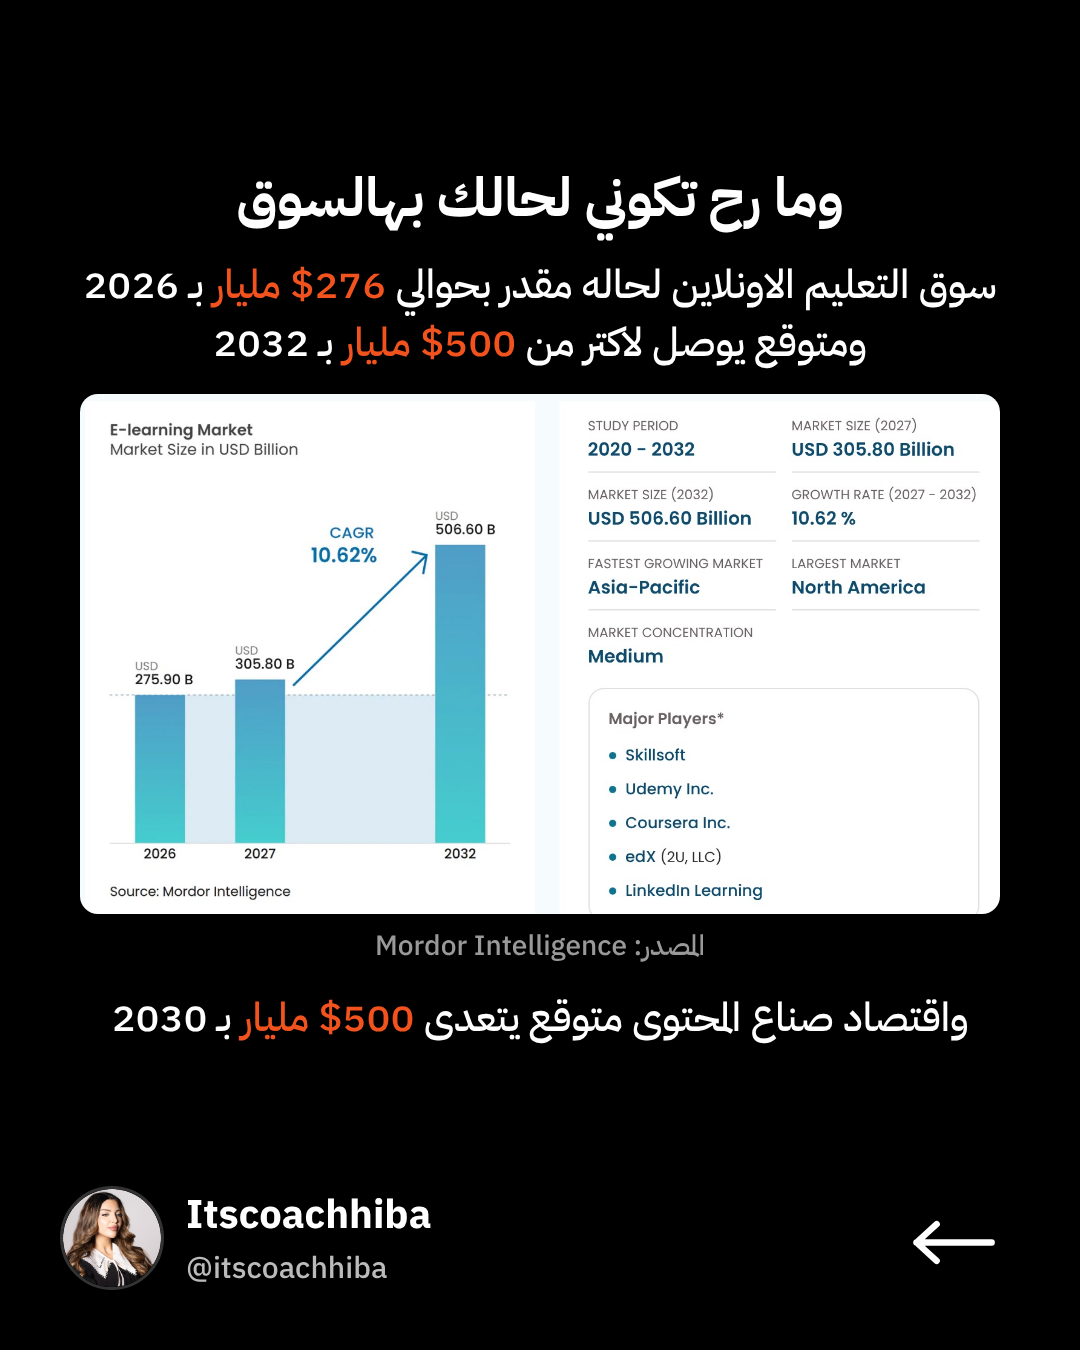
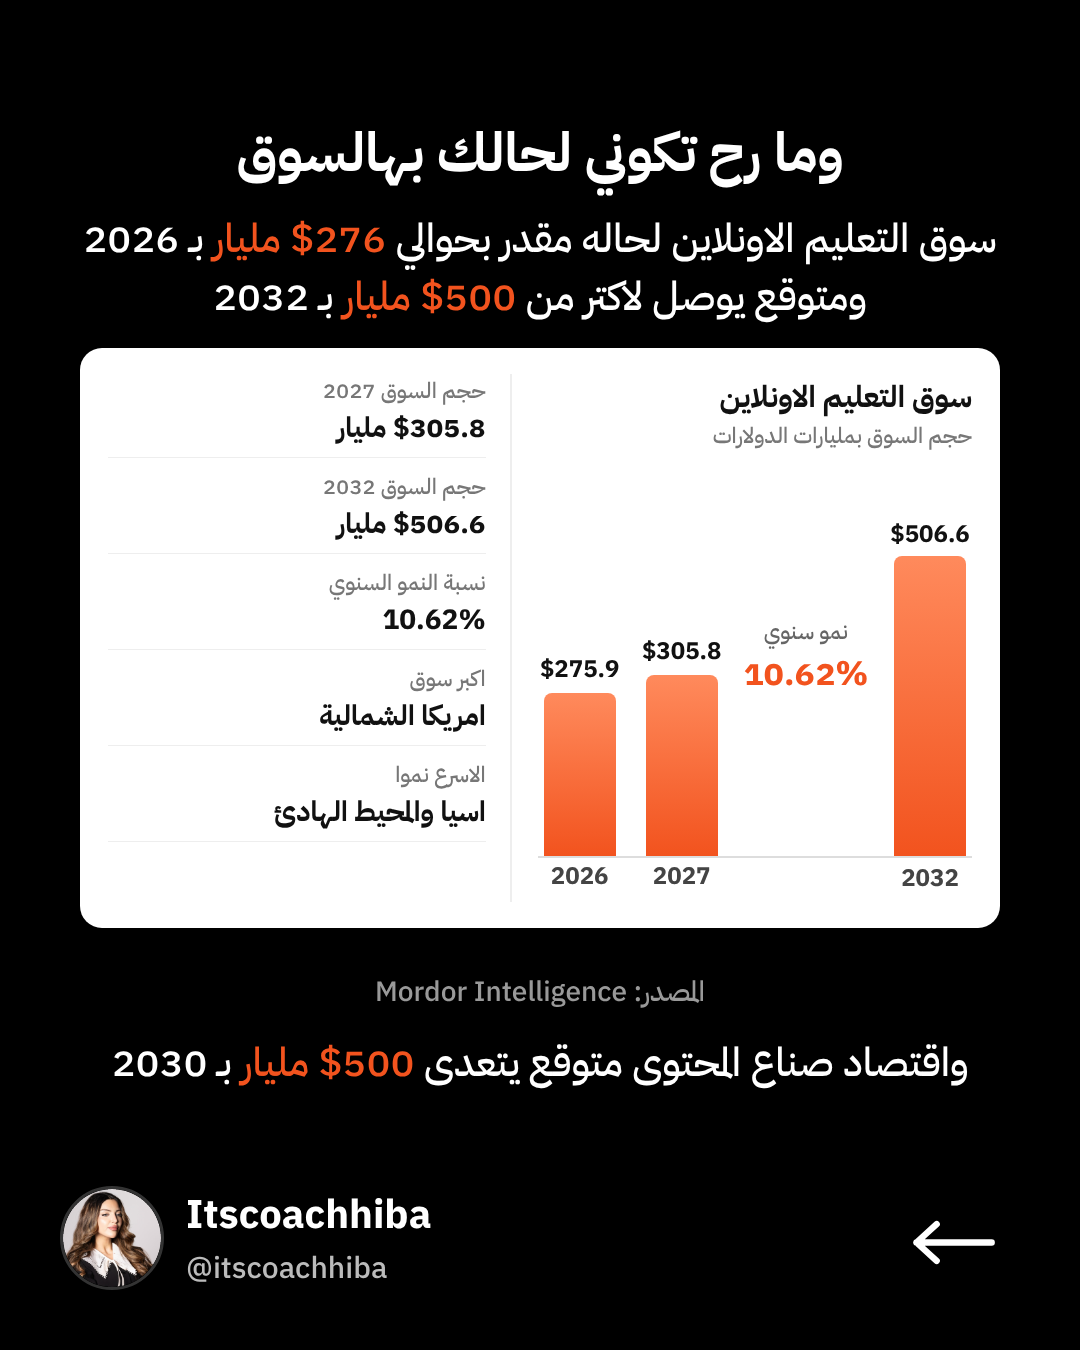
Carousel 22: Arabic market chart on slide 6
Claude-Session: https://claude.ai/code/session_01Q3F4hydPDiJyjfKYRyCC3U

Changed region(s): [[0.0611, 0.0933, 0.9472, 0.8089]]

diff --git a/carousels/22-digital-vs-physical/carousel.html b/carousels/22-digital-vs-physical/carousel.html
@@ -9,7 +9,16 @@
 .txt{background:#000;color:#fff}
 .txt .box{position:absolute;top:50px;bottom:190px;left:80px;right:80px;display:flex;flex-direction:column;justify-content:center;align-items:center;gap:22px;text-align:center}
 .vis{width:920px;height:470px;object-fit:cover;border-radius:28px;margin-bottom:10px}
-.proof{width:920px;border-radius:18px}
+.chart{width:920px;background:#fff;color:#111;border-radius:22px;padding:26px 28px;display:flex;gap:26px;text-align:right}
+.ch-l{flex:1.15}.ch-r{flex:1;display:flex;flex-direction:column;gap:12px;border-right:2px solid #eee;padding-right:24px}
+.ch-t{font-weight:700;font-size:30px}.ch-s{font-weight:500;font-size:22px;color:#777}
+.bars{display:flex;align-items:flex-end;gap:18px;height:400px;border-bottom:2px solid #ddd;margin:6px 0 44px;direction:ltr}
+.bar{display:flex;flex-direction:column;align-items:center;width:84px;position:relative}
+.bar i{display:block;width:72px;border-radius:8px 8px 0 0;background:linear-gradient(#ff8a5c,#F2531E)}
+.bar .v{font-weight:700;font-size:24px;margin-bottom:6px}.bar .y{position:absolute;bottom:-38px;font-weight:700;font-size:24px;color:#444}
+.gap{flex:1;align-self:center;text-align:center}.cagr{font-weight:500;font-size:22px;color:#666;direction:rtl;display:block}.cagr b{font-size:34px;color:#F2531E}
+.st{display:flex;flex-direction:column;border-bottom:1px solid #eee;padding-bottom:8px}.st span{font-weight:500;font-size:22px;color:#777}.st b{font-weight:700;font-size:28px;color:#111}
+.src{margin-top:22px!important}
 .src{font-size:28px!important;color:#999;margin-top:-10px}
 .txt p{font-weight:500;font-size:40px;line-height:1.45}
 .txt .big{font-weight:700;font-size:54px;line-height:1.3}
@@ -42,7 +51,21 @@
 <p>وبتوصلي لعميلات بكل العالم من تلفونك</p>
 <p>وبتقدري تكبري بزنسك بدون ما تكبر تكاليفك</p></div><div class="foot"><img src="avatar.png"><div><b>Itscoachhiba</b><span>@itscoachhiba</span></div></div><svg class="swipe" viewBox="0 0 120 60"><path d="M100 30 H18 M40 10 L18 30 L40 50" fill="none" stroke="#fff" stroke-width="7" stroke-linecap="round" stroke-linejoin="round"/></svg></section><section class="slide txt"><div class="box"><p class="big">وما رح تكوني لحالك بهالسوق</p>
 <p>سوق التعليم الاونلاين لحاله مقدر بحوالي <em><bdi dir="ltr">$276</bdi> مليار</em> بـ <bdi dir="ltr">2026</bdi> ومتوقع يوصل لاكتر من <em><bdi dir="ltr">$500</bdi> مليار</em> بـ <bdi dir="ltr">2032</bdi></p>
-<img class="proof" src="proof.jpg">
+<div class="chart"><div class="ch-l">
+<div class="ch-t">سوق التعليم الاونلاين</div><div class="ch-s">حجم السوق بمليارات الدولارات</div>
+<div class="bars">
+<div class="bar"><span class="v"><bdi dir="ltr">$275.9</bdi></span><i style="height:163px"></i><span class="y"><bdi dir="ltr">2026</bdi></span></div>
+<div class="bar"><span class="v"><bdi dir="ltr">$305.8</bdi></span><i style="height:181px"></i><span class="y"><bdi dir="ltr">2027</bdi></span></div>
+<div class="gap"><span class="cagr">نمو سنوي<br><b><bdi dir="ltr">10.62%</bdi></b></span></div>
+<div class="bar big"><span class="v"><bdi dir="ltr">$506.6</bdi></span><i style="height:300px"></i><span class="y"><bdi dir="ltr">2032</bdi></span></div>
+</div></div>
+<div class="ch-r">
+<div class="st"><span>حجم السوق <bdi dir="ltr">2027</bdi></span><b><bdi dir="ltr">$305.8</bdi> مليار</b></div>
+<div class="st"><span>حجم السوق <bdi dir="ltr">2032</bdi></span><b><bdi dir="ltr">$506.6</bdi> مليار</b></div>
+<div class="st"><span>نسبة النمو السنوي</span><b><bdi dir="ltr">10.62%</bdi></b></div>
+<div class="st"><span>اكبر سوق</span><b>امريكا الشمالية</b></div>
+<div class="st"><span>الاسرع نموا</span><b>اسيا والمحيط الهادئ</b></div>
+</div></div>
 <p class="src">المصدر: <bdi dir="ltr">Mordor Intelligence</bdi></p>
 <p>واقتصاد صناع المحتوى متوقع يتعدى <em><bdi dir="ltr">$500</bdi> مليار</em> بـ <bdi dir="ltr">2030</bdi></p></div><div class="foot"><img src="avatar.png"><div><b>Itscoachhiba</b><span>@itscoachhiba</span></div></div><svg class="swipe" viewBox="0 0 120 60"><path d="M100 30 H18 M40 10 L18 30 L40 50" fill="none" stroke="#fff" stroke-width="7" stroke-linecap="round" stroke-linejoin="round"/></svg></section><section class="slide txt"><div class="box"><img class="vis" src="v7.jpg">
 <p class="big">يعني الناس <em>عم تدفع</em> لتتعلم من حدا عاش التجربة</p>

diff --git a/carousels/22-digital-vs-physical/build.py b/carousels/22-digital-vs-physical/build.py
@@ -38,7 +38,21 @@ slides = [
     # 6 market + proof
     f'''<p class="big">وما رح تكوني لحالك بهالسوق</p>
 <p>سوق التعليم الاونلاين لحاله مقدر بحوالي {o(D('$276') + ' مليار')} بـ {D('2026')} ومتوقع يوصل لاكتر من {o(D('$500') + ' مليار')} بـ {D('2032')}</p>
-<img class="proof" src="proof.jpg">
+<div class="chart"><div class="ch-l">
+<div class="ch-t">سوق التعليم الاونلاين</div><div class="ch-s">حجم السوق بمليارات الدولارات</div>
+<div class="bars">
+<div class="bar"><span class="v">{D('$275.9')}</span><i style="height:163px"></i><span class="y">{D('2026')}</span></div>
+<div class="bar"><span class="v">{D('$305.8')}</span><i style="height:181px"></i><span class="y">{D('2027')}</span></div>
+<div class="gap"><span class="cagr">نمو سنوي<br><b>{D('10.62%')}</b></span></div>
+<div class="bar big"><span class="v">{D('$506.6')}</span><i style="height:300px"></i><span class="y">{D('2032')}</span></div>
+</div></div>
+<div class="ch-r">
+<div class="st"><span>حجم السوق {D('2027')}</span><b>{D('$305.8')} مليار</b></div>
+<div class="st"><span>حجم السوق {D('2032')}</span><b>{D('$506.6')} مليار</b></div>
+<div class="st"><span>نسبة النمو السنوي</span><b>{D('10.62%')}</b></div>
+<div class="st"><span>اكبر سوق</span><b>امريكا الشمالية</b></div>
+<div class="st"><span>الاسرع نموا</span><b>اسيا والمحيط الهادئ</b></div>
+</div></div>
 <p class="src">المصدر: {D('Mordor Intelligence')}</p>
 <p>واقتصاد صناع المحتوى متوقع يتعدى {o(D('$500') + ' مليار')} بـ {D('2030')}</p>''',
     # 7 why pick
@@ -83,7 +97,16 @@ css = f'''@font-face{{font-family:P;font-weight:700;src:url(ibm-plex-sans-arabic
 .txt{{background:#000;color:#fff}}
 .txt .box{{position:absolute;top:50px;bottom:190px;left:80px;right:80px;display:flex;flex-direction:column;justify-content:center;align-items:center;gap:22px;text-align:center}}
 .vis{{width:920px;height:470px;object-fit:cover;border-radius:28px;margin-bottom:10px}}
-.proof{{width:920px;border-radius:18px}}
+.chart{{width:920px;background:#fff;color:#111;border-radius:22px;padding:26px 28px;display:flex;gap:26px;text-align:right}}
+.ch-l{{flex:1.15}}.ch-r{{flex:1;display:flex;flex-direction:column;gap:12px;border-right:2px solid #eee;padding-right:24px}}
+.ch-t{{font-weight:700;font-size:30px}}.ch-s{{font-weight:500;font-size:22px;color:#777}}
+.bars{{display:flex;align-items:flex-end;gap:18px;height:400px;border-bottom:2px solid #ddd;margin:6px 0 44px;direction:ltr}}
+.bar{{display:flex;flex-direction:column;align-items:center;width:84px;position:relative}}
+.bar i{{display:block;width:72px;border-radius:8px 8px 0 0;background:linear-gradient(#ff8a5c,{O})}}
+.bar .v{{font-weight:700;font-size:24px;margin-bottom:6px}}.bar .y{{position:absolute;bottom:-38px;font-weight:700;font-size:24px;color:#444}}
+.gap{{flex:1;align-self:center;text-align:center}}.cagr{{font-weight:500;font-size:22px;color:#666;direction:rtl;display:block}}.cagr b{{font-size:34px;color:{O}}}
+.st{{display:flex;flex-direction:column;border-bottom:1px solid #eee;padding-bottom:8px}}.st span{{font-weight:500;font-size:22px;color:#777}}.st b{{font-weight:700;font-size:28px;color:#111}}
+.src{{margin-top:22px!important}}
 .src{{font-size:28px!important;color:#999;margin-top:-10px}}
 .txt p{{font-weight:500;font-size:40px;line-height:1.45}}
 .txt .big{{font-weight:700;font-size:54px;line-height:1.3}}
